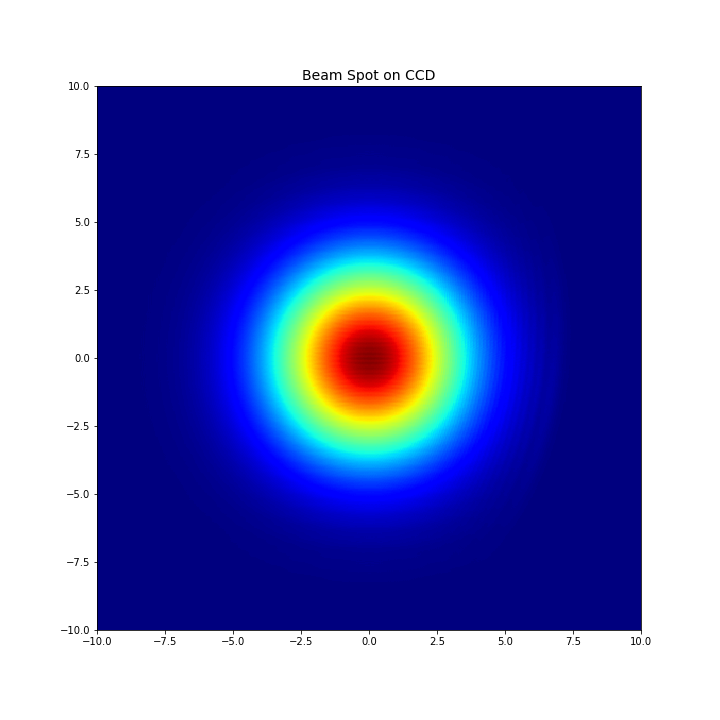
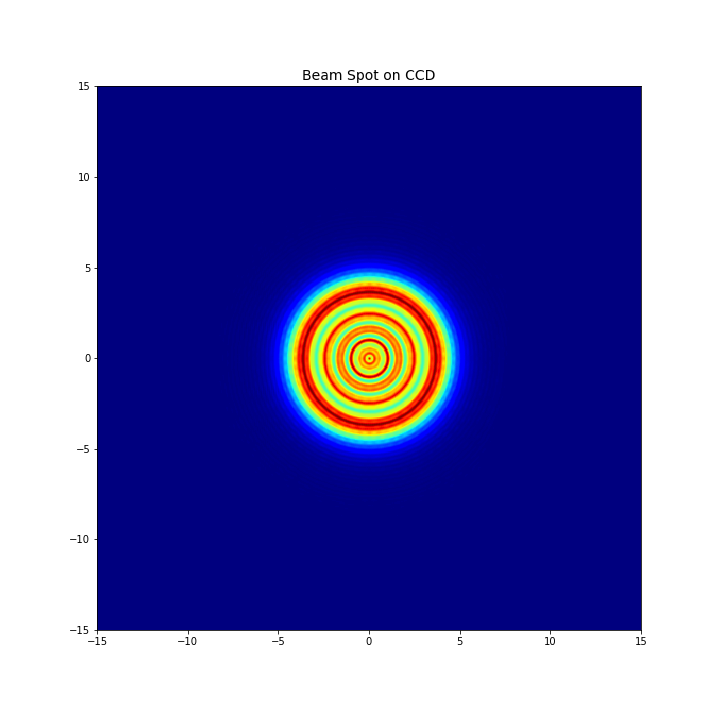
beam

diff --git a/FACET_model_current/wavelength_runs/mirror_test_script.py b/FACET_model_current/wavelength_runs/mirror_test_script.py
@@ -69,15 +69,14 @@ link.zLoadFile(file)
 
 link.ipzGetLDE()
 
-#link.zSetSurfaceParameter(4, 3,-47)
-#link.zSetSurfaceParameter(6, 3, -45)
+link.zSetSurfaceParameter(4, 3,70)
+link.zSetSurfaceParameter(6, 3, 70)
 #link.zSetSurfaceParameter(6, 6, 0)
 #link.zSetSurfaceParameter(4, 1, 10)
 #link.zSetSurfaceParameter(6, 1, 0)
 #link.zSetSurfaceParameter(6, 6, 1)
 #link.zSetSurfaceData(4,54, -47)
 #link.zSetSurfaceData(6,54, -47)
-link.zSaveFile(file)
 """
 
 
@@ -91,12 +90,13 @@ link.zSetSurfaceParameter(4, 6, 1)
 
 link.zSetWave(1, 0.800, 1)
 setfile = link.zGetFile().lower().replace('.zmx', '.CFG')
-GAUSS_WAIST, WAIST_X, WAIST_Y, beam_waist = 0, 1, 2, 5
-DECENTER_X, DECENTER_Y = 0,0
+GAUSS_WAIST, WAIST_X, WAIST_Y, beam_waist = 3, 1, 2, 5
+DECENTER_X, DECENTER_Y = 5,5
 S_512 = 5
-grid_size=20
+grid_size=30
 cfgfile = link.zSetPOPSettings('irr', setfile, startSurf=2, endSurf=20, field=1, wave=1, beamType=GAUSS_WAIST,
-                             paramN=((WAIST_X, WAIST_Y), (beam_waist, beam_waist), (DECENTER_X, DECENTER_Y)), sampx=S_512, sampy=S_512,
+                             paramN=((WAIST_X, WAIST_Y), (beam_waist, beam_waist),
+                                     (DECENTER_X, DECENTER_Y)), sampx=S_512, sampy=S_512,
                              widex=grid_size, widey=grid_size, tPow=1)
 
 irr_data, irr_grid_plot = link.zGetPOP(settingsFile=setfile, displayData=True)
